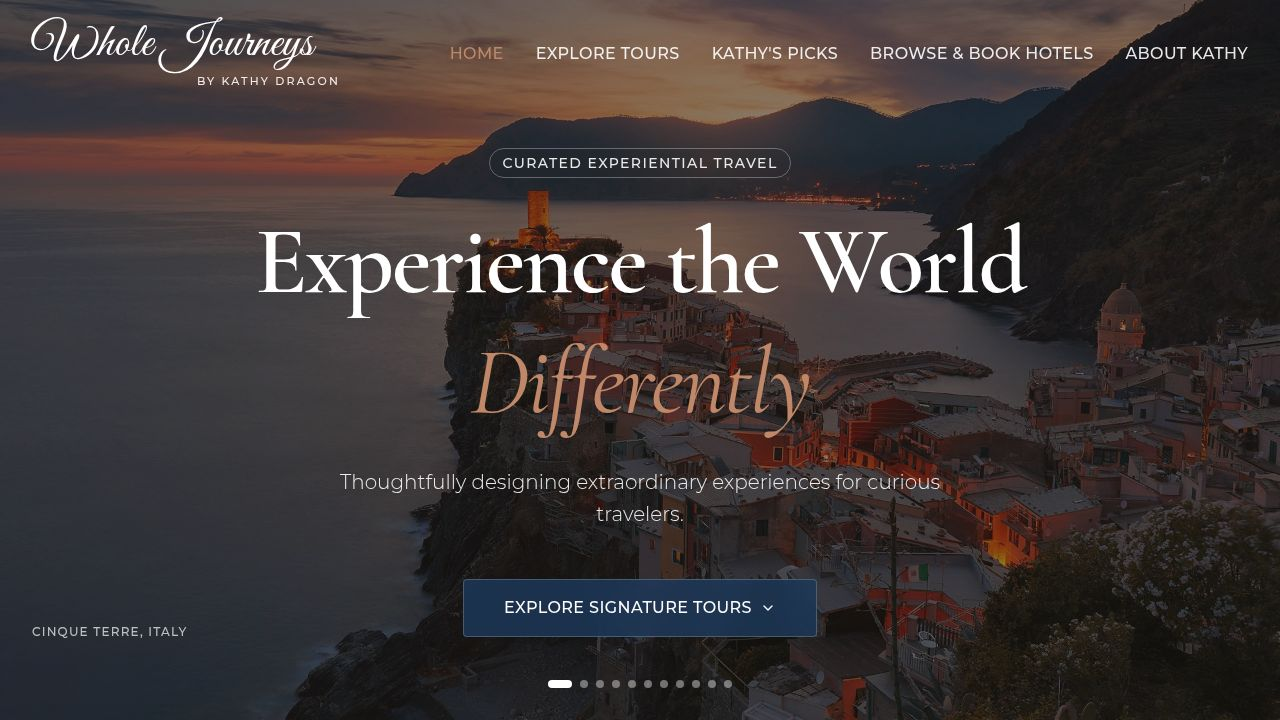
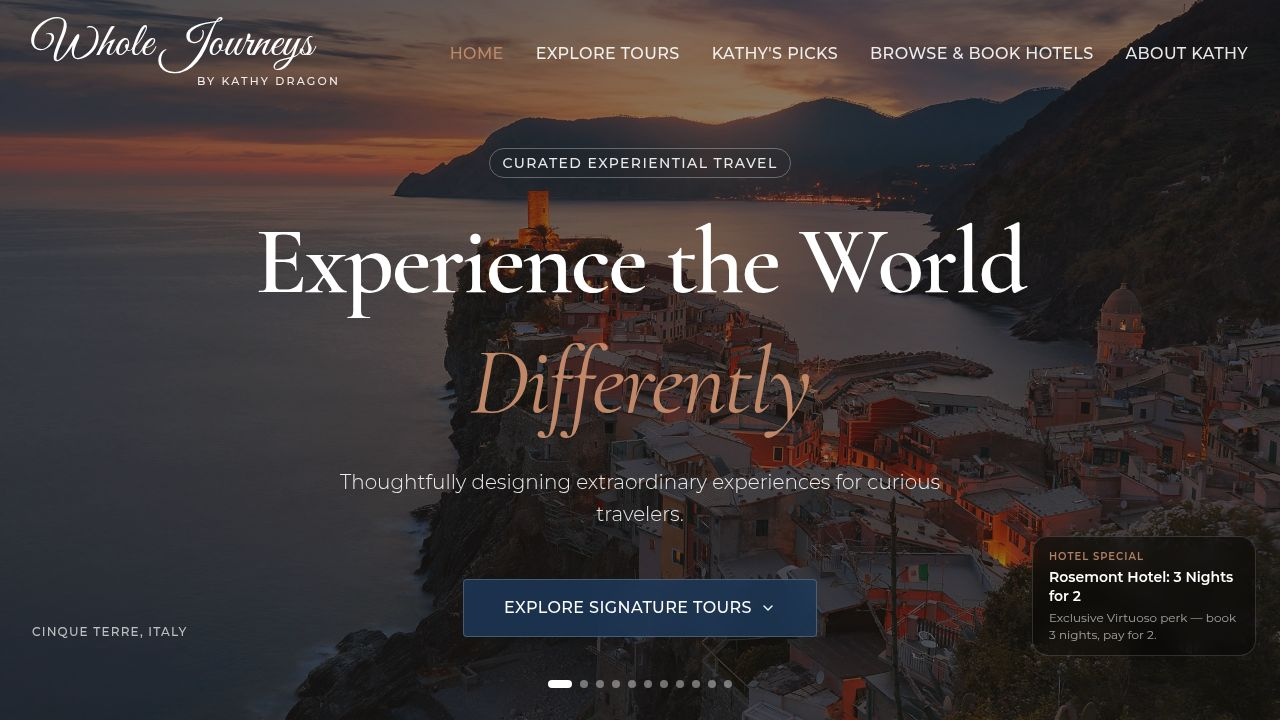
Improve tour category display and save error handling
Update tour categories for "Private Sailing Croatia" and "Alpe Adria Trail", and implement robust error handling for save operations in the admin interface.

Replit-Commit-Author: Agent
Replit-Commit-Session-Id: e470989c-778b-43b7-8b98-f9c640c0c7eb
Replit-Commit-Checkpoint-Type: full_checkpoint
Replit-Commit-Event-Id: ed900c80-0cce-4083-85db-87cc2839ff00
Replit-Commit-Screenshot-Url: https://storage.googleapis.com/screenshot-production-us-central1/654e29e9-1e29-43ab-9f95-6739177fc84f/e470989c-778b-43b7-8b98-f9c640c0c7eb/6uL5KPp
Replit-Helium-Checkpoint-Created: true

Changed region(s): [[0.8125, 0.7333, 0.9688, 0.9167]]

diff --git a/artifacts/whole-journeys/src/pages/Admin.tsx b/artifacts/whole-journeys/src/pages/Admin.tsx
@@ -487,12 +487,23 @@ function TourTagsTab() {
   const { data: tours } = useTours();
   const updateTags = useUpdateTourTags();
   const [saved, setSaved] = useState<Record<string, boolean>>({});
+  const [saveError, setSaveError] = useState<Record<string, boolean>>({});
 
   function toggleTag(tourId: string, cat: string, current: string[]) {
     const next = current.includes(cat) ? current.filter((c) => c !== cat) : [...current, cat];
-    updateTags.mutate({ tourId, categories: next });
-    setSaved((s) => ({ ...s, [tourId]: true }));
-    setTimeout(() => setSaved((s) => ({ ...s, [tourId]: false })), 1500);
+    updateTags.mutate(
+      { tourId, categories: next },
+      {
+        onSuccess: () => {
+          setSaved((s) => ({ ...s, [tourId]: true }));
+          setTimeout(() => setSaved((s) => ({ ...s, [tourId]: false })), 1500);
+        },
+        onError: () => {
+          setSaveError((s) => ({ ...s, [tourId]: true }));
+          setTimeout(() => setSaveError((s) => ({ ...s, [tourId]: false })), 3000);
+        },
+      }
+    );
   }
 
   function resetTags(tourId: string) {
@@ -519,6 +530,7 @@ function TourTagsTab() {
                 </div>
                 <div className="flex items-center gap-2 flex-shrink-0">
                   {saved[tour.id] && <span className="text-xs text-green-600 font-medium flex items-center gap-1"><Check className="w-3.5 h-3.5" /> Saved</span>}
+                  {saveError[tour.id] && <span className="text-xs text-red-500 font-medium">Save failed</span>}
                   <button onClick={() => resetTags(tour.id)} title="Reset to defaults" className="text-muted-foreground hover:text-foreground p-1 rounded"><RotateCcw className="w-3.5 h-3.5" /></button>
                 </div>
               </div>
@@ -553,6 +565,7 @@ function TourContentTab() {
   // ── Travefy tour state (description + highlights + destination + groupSize + seo) ─
   const [drafts, setDrafts] = useState<Record<string, { description: string; highlights: string[]; destination: string; groupSize: string; imageUrl: string; seoTitle: string; seoDescription: string }>>({});
   const [saved, setSaved] = useState<Record<string, boolean>>({});
+  const [saveError, setSaveError] = useState<Record<string, boolean>>({});
   const [newHighlight, setNewHighlight] = useState<Record<string, string>>({});
 
   // ── Custom tour state (full form) ─────────────────────────────────────────
@@ -672,6 +685,10 @@ function TourContentTab() {
         onSuccess: () => {
           setSaved((s) => ({ ...s, [tourId]: true }));
           setTimeout(() => setSaved((s) => ({ ...s, [tourId]: false })), 2000);
+        },
+        onError: () => {
+          setSaveError((s) => ({ ...s, [tourId]: true }));
+          setTimeout(() => setSaveError((s) => ({ ...s, [tourId]: false })), 4000);
         },
       }
     );
@@ -892,6 +909,7 @@ function TourContentTab() {
                   </div>
                   <div className="flex items-center gap-2">
                     {saved[tour.id] && <span className="text-xs text-green-600 font-medium flex items-center gap-1"><Check className="w-3.5 h-3.5" /> Saved</span>}
+                    {saveError[tour.id] && <span className="text-xs text-red-500 font-medium">Save failed — use wholejourneys.com/admin</span>}
                     <button
                       onClick={() => toggleOpen(tour.id)}
                       className={`flex items-center gap-1.5 px-3 py-1.5 text-xs font-semibold rounded-md border transition-colors ${isOpen ? "bg-muted border-border text-foreground" : "bg-primary text-white border-primary hover:bg-primary/90"}`}

diff --git a/artifacts/whole-journeys/src/hooks/use-tours.ts b/artifacts/whole-journeys/src/hooks/use-tours.ts
@@ -154,7 +154,7 @@ export const TRAVEFY_TOURS: Tour[] = [
     duration: null,
     price: null,
     groupSize: "Private departures for 2+",
-    categories: ["Adventure"],
+    categories: ["Cruise/Sail"],
     description: "Sail the crystal-clear Adriatic on a private charter yacht, island-hopping between Hvar, Korčula, and the Dalmatian coast. Swim in hidden coves, dine at waterfront konobas, and watch the sun set from the sea.",
     imageUrl: `${CDN}/i_h9a1fe2f70324cdf8bc17a66936132e555738456d.jpg`,
     highlights: ["Private Yacht Charter", "Dalmatian Islands", "Hidden Adriatic Coves"],
@@ -184,7 +184,7 @@ export const TRAVEFY_TOURS: Tour[] = [
     duration: null,
     price: null,
     groupSize: "Private departures for 2+",
-    categories: ["Adventure", "Self-Guided"],
+    categories: ["Long Distance Walks", "Walk/Hike", "Self-Guided"],
     description: "Walk the iconic Alpe Adria Trail from the Grossglockner glacier in Austria through Slovenia's Triglav National Park to the Adriatic Sea in Italy — one of Europe's great long-distance walks.",
     imageUrl: `${CDN}/i_hc61f0982b9a10f51c3a7625155a22d596c2ae1cb.jpg`,
     highlights: ["Grossglockner High Alpine Road", "Triglav Crossing", "Adriatic Finish"],

diff --git a/artifacts/whole-journeys/src/hooks/use-admin-data.ts b/artifacts/whole-journeys/src/hooks/use-admin-data.ts
@@ -166,6 +166,7 @@ export function useSaveTourContent() {
         headers: { "Content-Type": "application/json" },
         body: JSON.stringify({ description, highlights, destination, groupSize, imageUrl, seoTitle, seoDescription }),
       });
+      if (!res.ok) throw new Error(`Save failed (${res.status})`);
       return res.json();
     },
     onSuccess: () => {